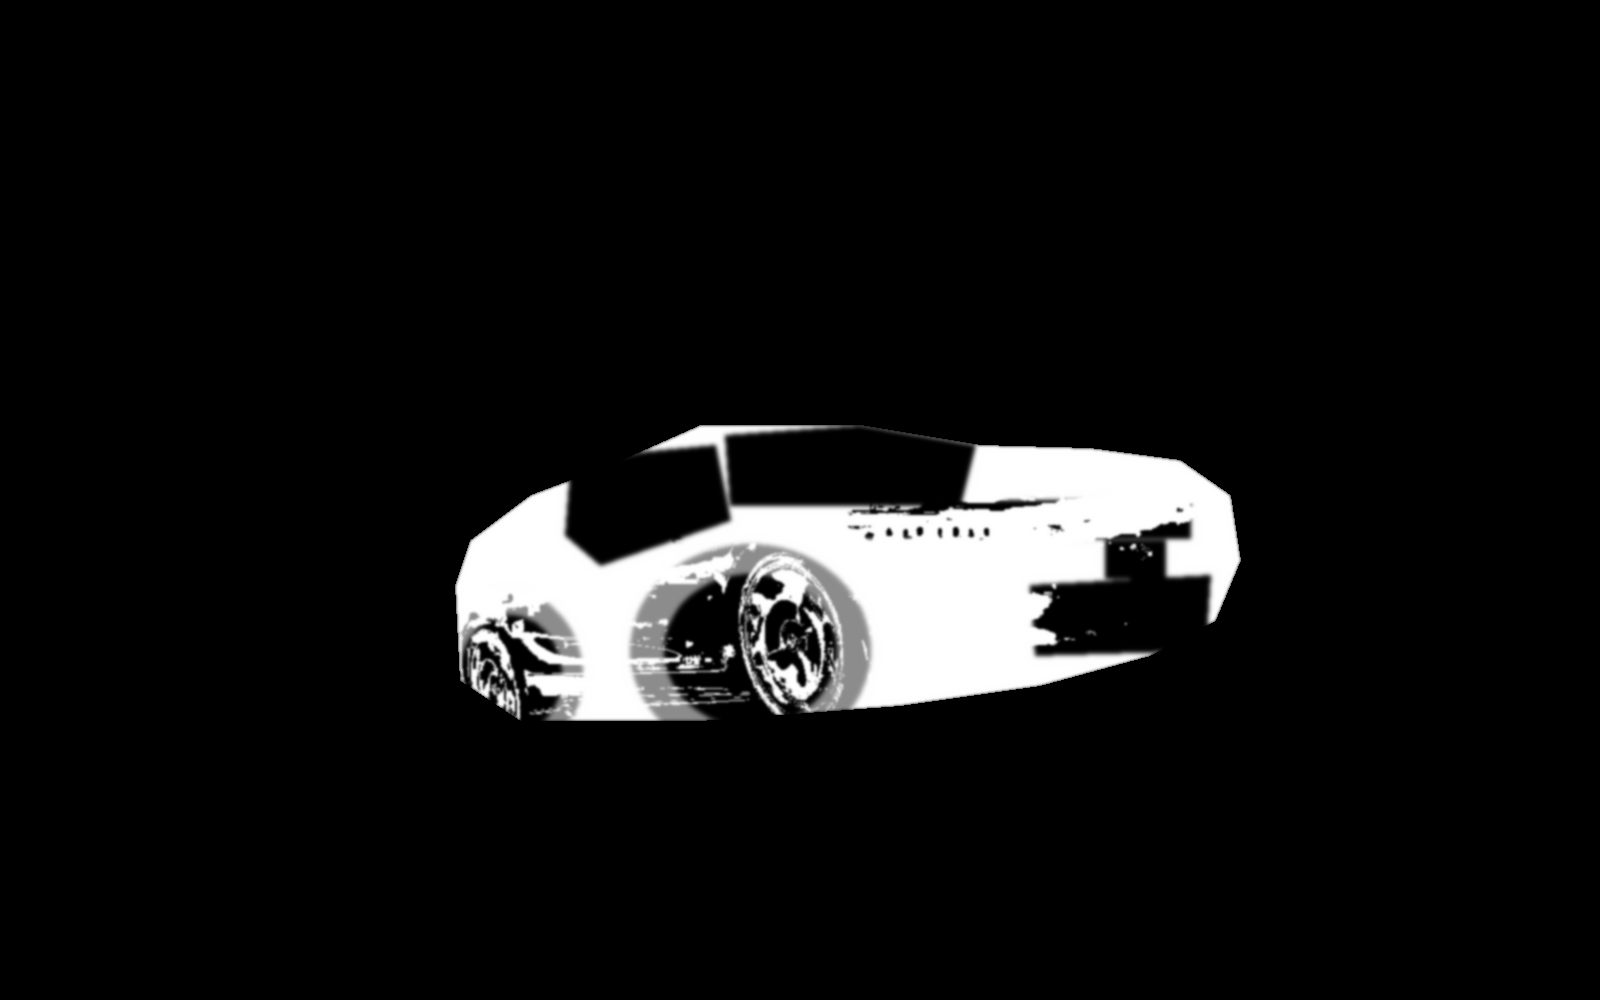
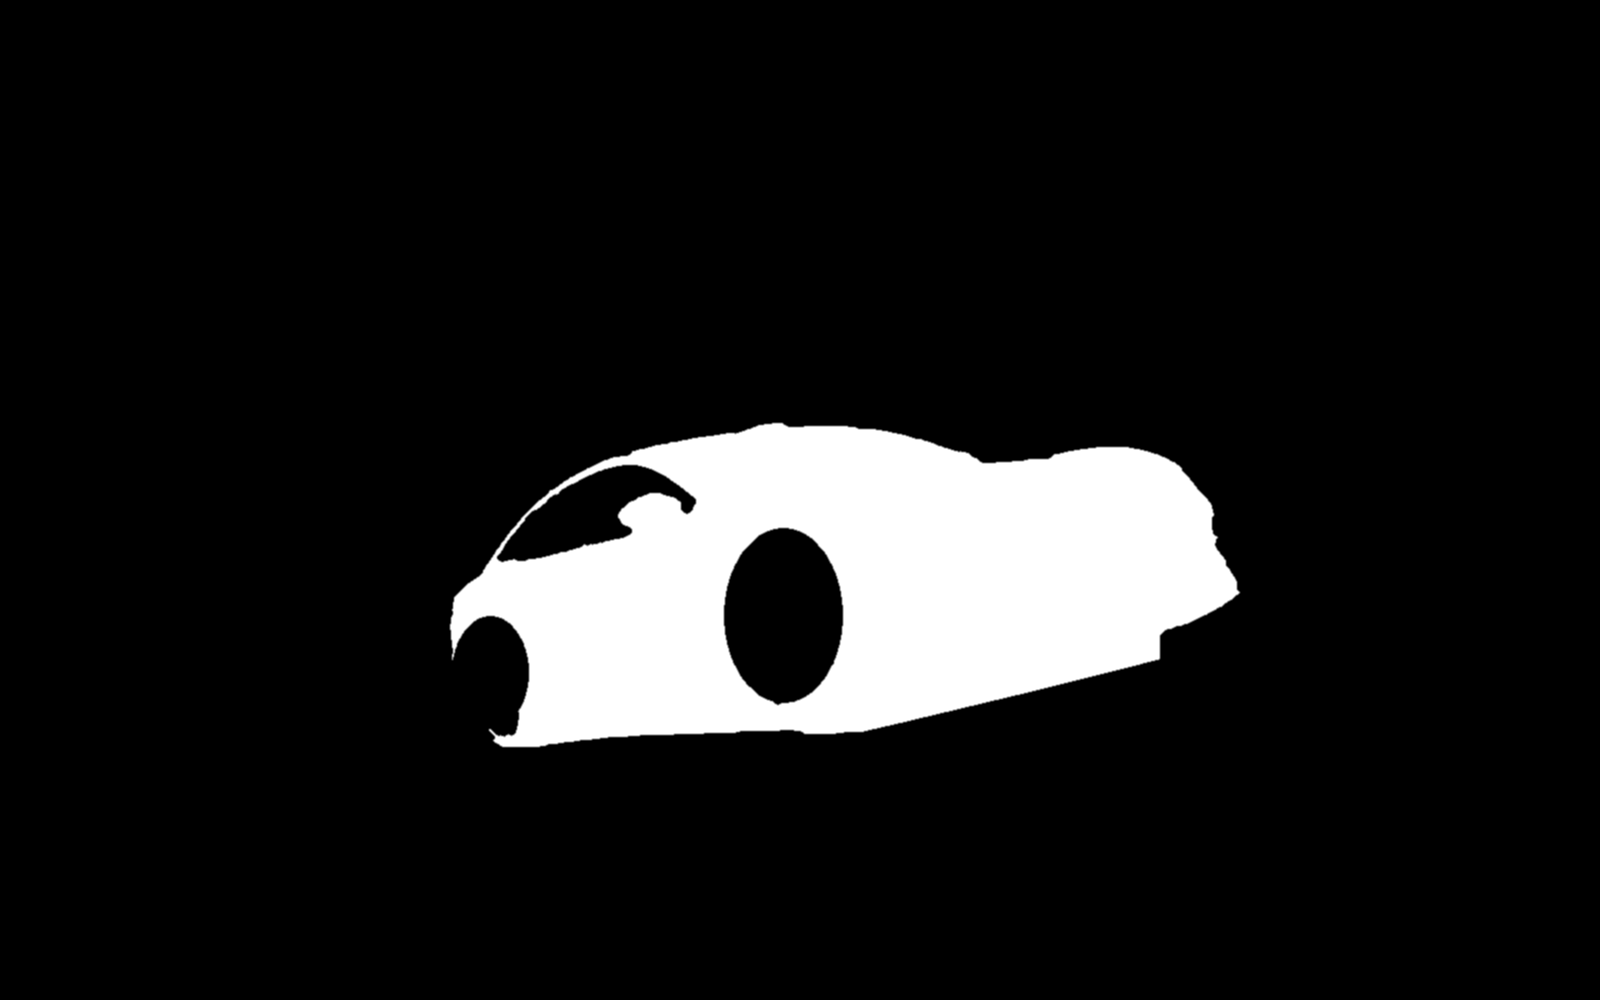
feat: 采用重做 mask 的确定性 5 色海报

Changed region(s): [[0.2812, 0.403, 0.7188, 0.775], [0.625, 0.465, 0.7812, 0.682]]

diff --git a/docs/IMAGE-PROMPTS.md b/docs/IMAGE-PROMPTS.md
@@ -75,7 +75,7 @@
 
 ## 9. 当前已交付
 
-- 海豹 r1：apps/web/public/images/paints/seal/（B 套，已入库）
+- 海豹 r1：apps/web/public/images/paints/seal/（确定性 v3，已入库）
 - 汉 EV s7：apps/web/public/images/paints/han-ev/（确定性 A 套，已入库）
-- 海豹 A 套备份：apps/web/public/images/paints/seal-det/
+- 海豹旧 A 套备份：apps/web/public/images/paints/seal-det/
 - 两套差异与指标：docs/IMAGE-COMPARISON.md
